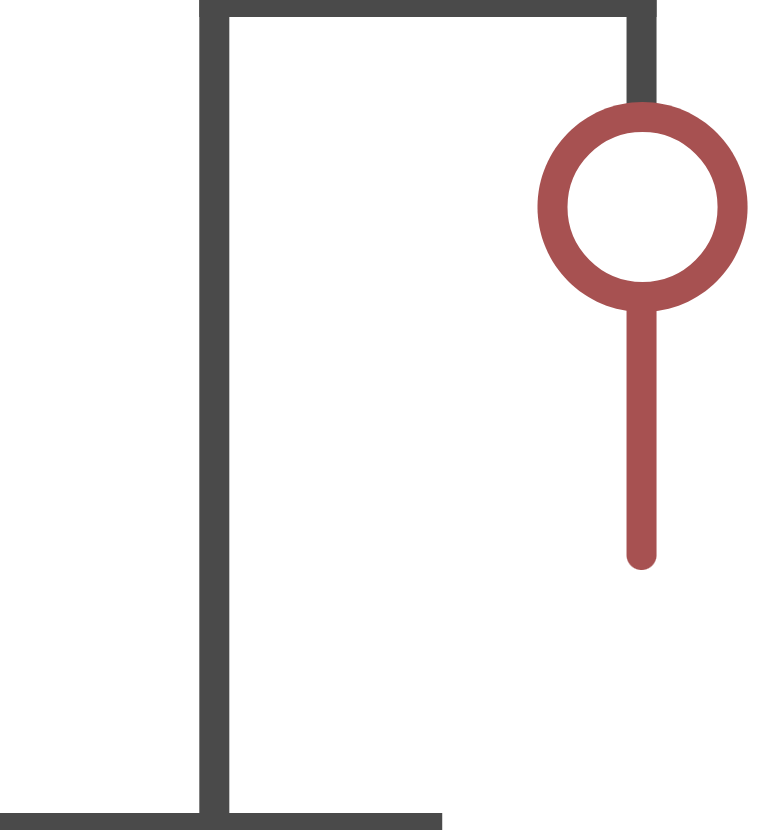
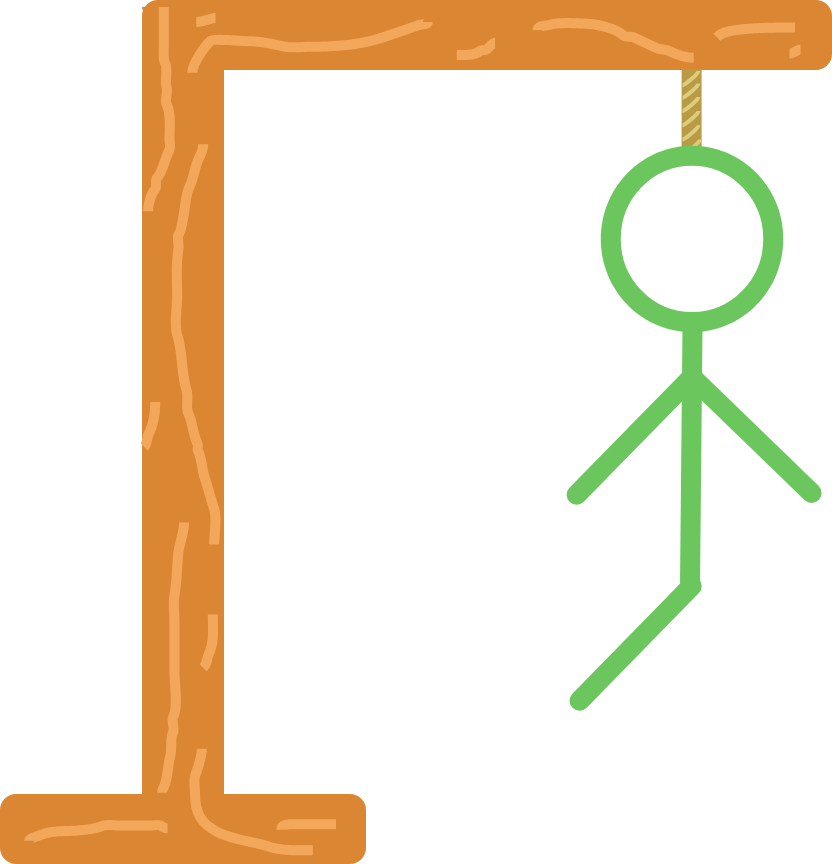
modificaciones menores graficas y script

Changed region(s): [[0.0, 0.0, 1.0, 1.0]]

diff --git a/assets/js/script.js b/assets/js/script.js
@@ -23,7 +23,7 @@ const visibilityResult=document.querySelector(".result");
 const resultButton=document.querySelector(".result_game");
 const phrase=document.querySelector(".phrase");
 const word = ["ELECTROENCEFALOGRAFISTA","CAJA","HELADERA","TEMPANO","MUSICA","EXTRACTO","ILUMINACION","AURICULARES","JAZZ","TRANSPARENTE","ESTADISTICAS","ARCHIVO","ELECTRODOMESTICO","BIOLUMINISCENCIA","OVOVIViPARO","IDIOSINCRASIA","ANARANJADA"];
-const url=["'./assets/img/state1.png'","'./assets/img/state2.png'","'./assets/img/state3.png'","'./assets/img/state4.png'","'./assets/img/state5.png'","'./assets/img/state6.png'","'./assets/img/state7.png'","'./assets/img/state8.png'","'./assets/img/state9.png'","'./assets/img/state10.png'","'./assets/img/state11.png'"]
+const url=["'./assets/img/state1.png'","'./assets/img/state2.png'","'./assets/img/state3.png'","'./assets/img/state4.png'","'./assets/img/state5.png'","'./assets/img/state6.png'","'./assets/img/state7.png'","'./assets/img/state8.png'","'./assets/img/state9.png'"]
 let newWordKeyboard=[];
 let append;
 let n;
@@ -169,7 +169,7 @@ function verification (key){
 }
 function loss(){
     console.log(gameloss);
-    if(r <= 10){
+    if(r <= 8){
         if(gameloss==r){
             
             let img=url[r];
@@ -183,7 +183,7 @@ function loss(){
 }
 function life(){
     console.log(gameloss);
-    restLife.value=10-gameloss;
+    restLife.value=8-gameloss;
 }
 
 function restart(){
@@ -193,6 +193,8 @@ function restart(){
     life();
     stateAddWord=1;
     gameloss=0;
+    r=0;
+    loss();
 }
 function exit(){
     visibilityMain.style.display="initial";
@@ -261,7 +263,7 @@ function resultGame(){
     console.log("errrorrr");
     console.log(gameloss);
     console.log(winner);
-    if(gameloss==10){
+    if(gameloss==8){
         visibilityResult.style.display="initial";
         visibilityResult.style.backgroundImage="url('./assets/img/lost.png')";
         phrase.textContent="La palabra correcta era : "+word[n];
